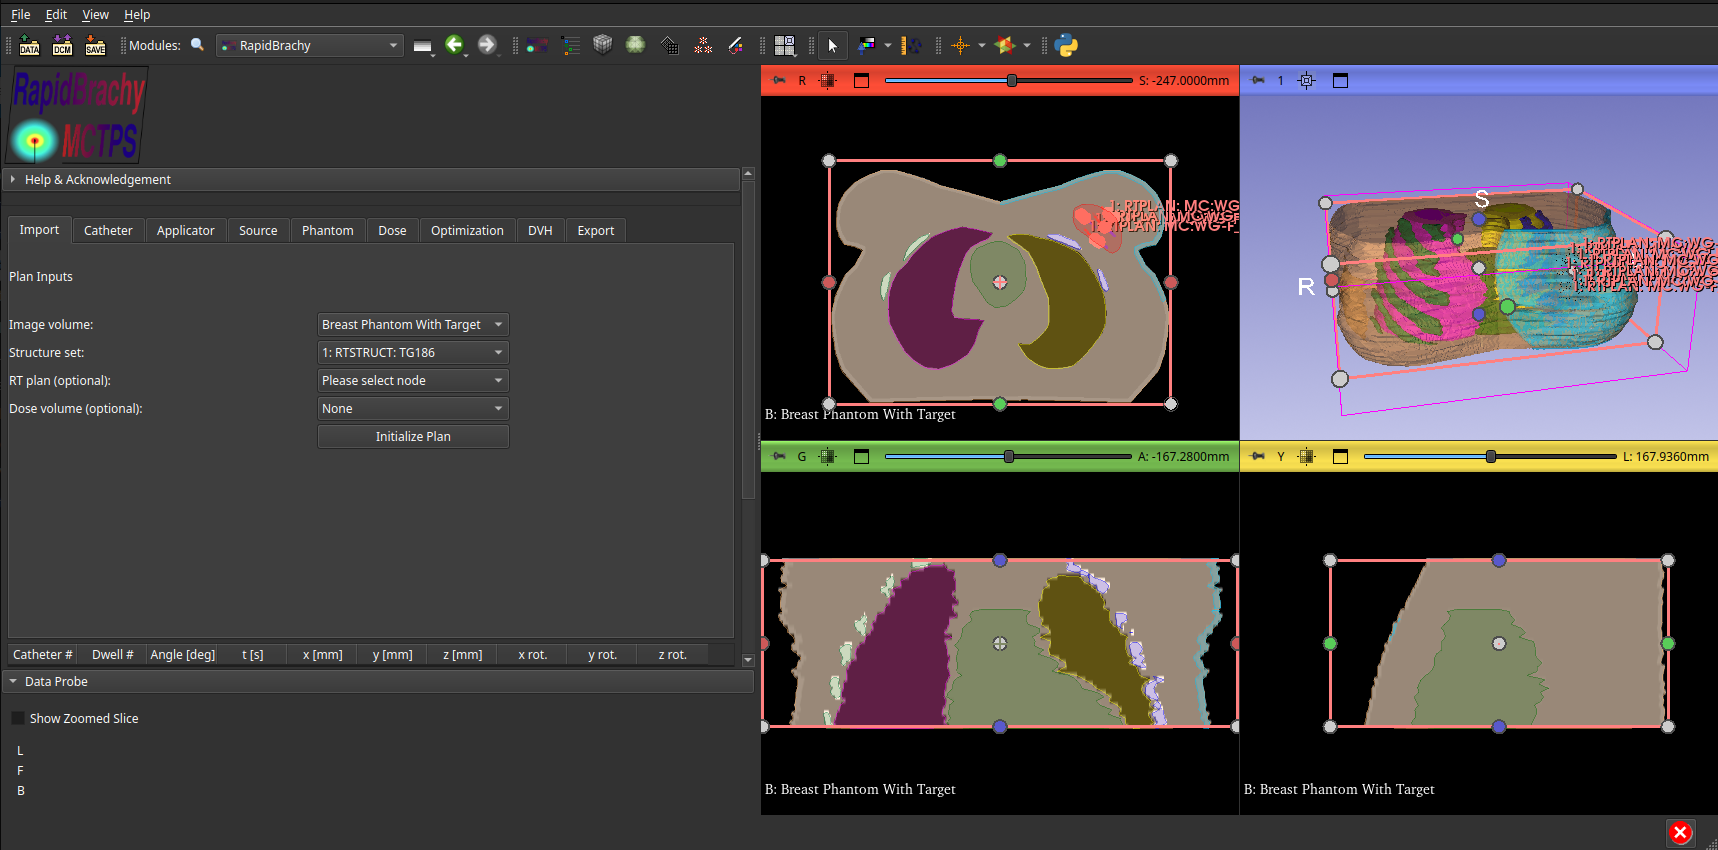
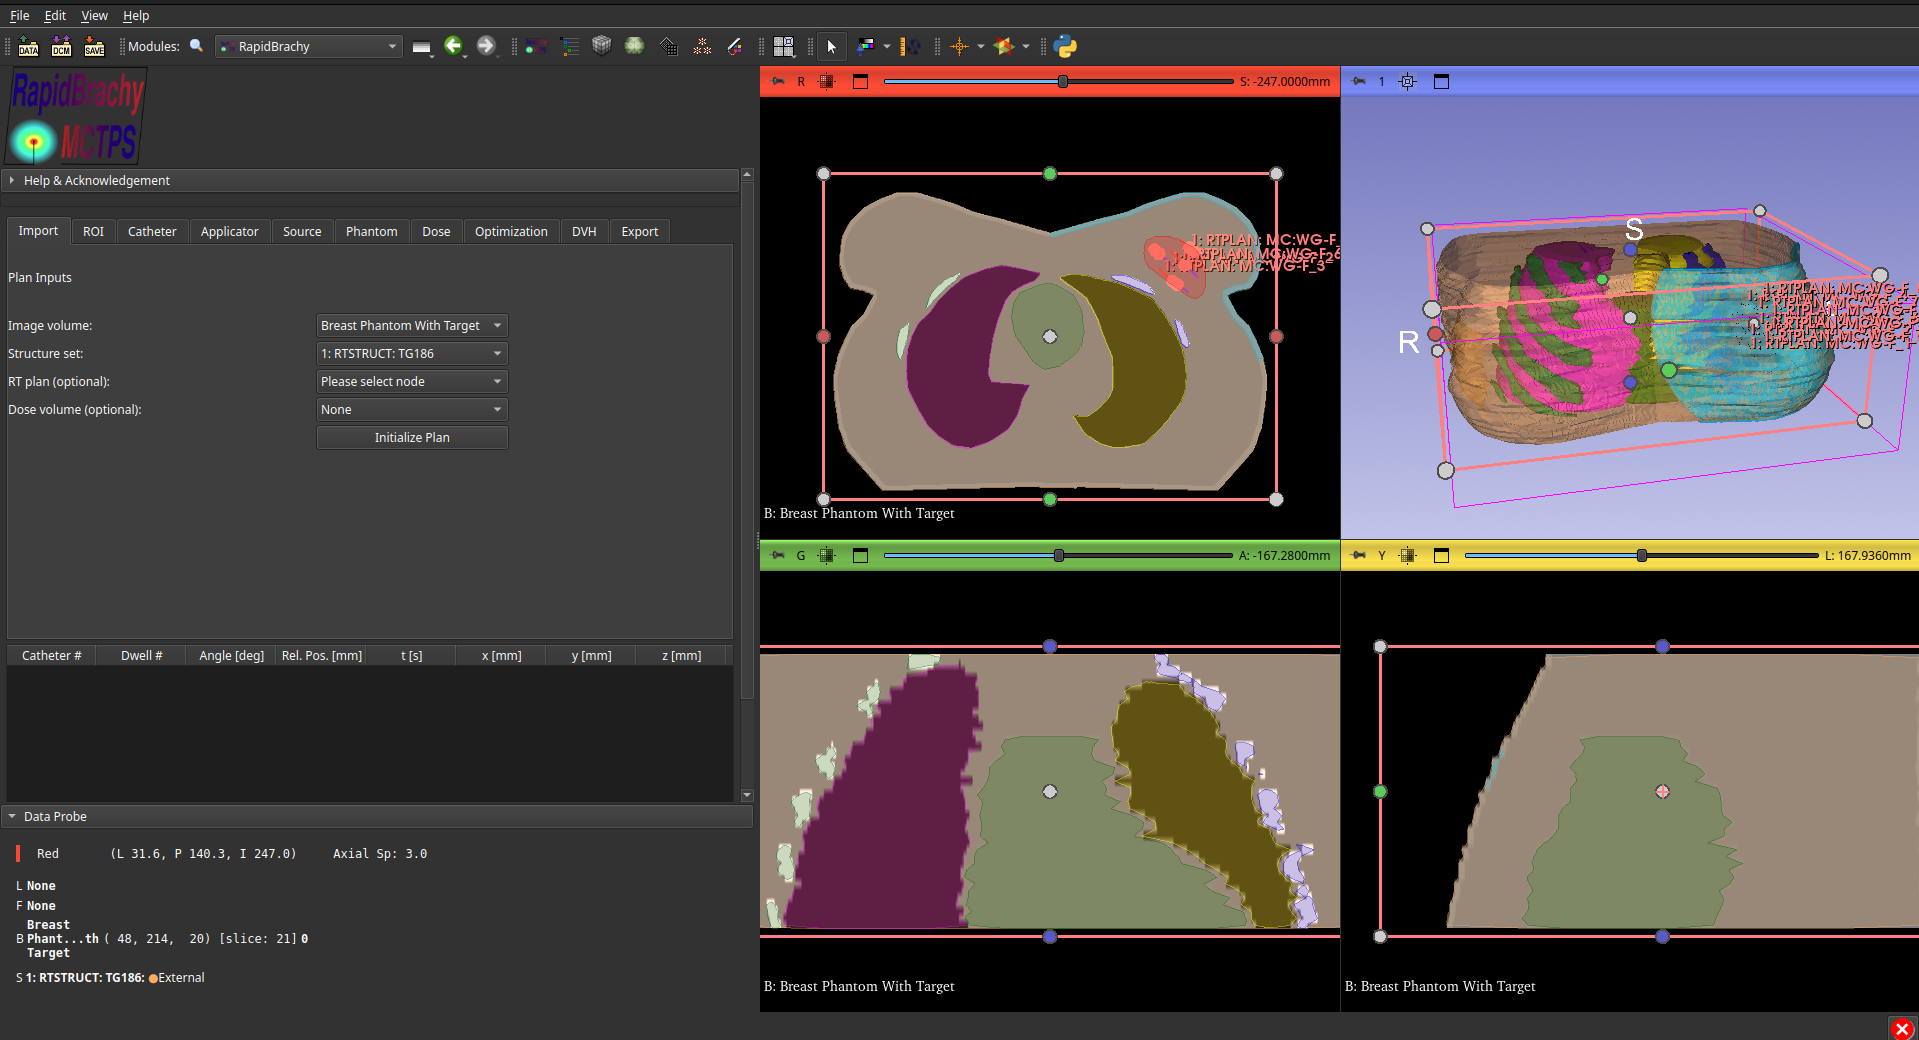
Deployed e3718ec with MkDocs version: 1.6.1

diff --git a/about/index.html b/about/index.html
@@ -64,6 +64,14 @@
     <li class="toctree-l2"><a class="reference internal" href="#how-to-cite">How to cite</a>
     </li>
     <li class="toctree-l2"><a class="reference internal" href="#acknowledgement">Acknowledgement</a>
+        <ul>
+    <li class="toctree-l3"><a class="reference internal" href="#major-contributors">Major Contributors</a>
+    </li>
+    <li class="toctree-l3"><a class="reference internal" href="#groups-contributing-to-rapidbrachymctpss-core-engineering">Groups Contributing to RapidBrachyMCTPS's Core Engineering</a>
+    </li>
+    <li class="toctree-l3"><a class="reference internal" href="#funding-sources">Funding Sources</a>
+    </li>
+        </ul>
     </li>
     <li class="toctree-l2"><a class="reference internal" href="#contact-us">Contact us</a>
     </li>
@@ -178,7 +186,23 @@
 <li>Kalinowski J, Jafarzadeh H, Farahnak F, Enger SA. RapidBrachyMCTPS 3.0: recent updates and validation of RapidBrachyMCTPS, a Monte Carlo-based brachytherapy treatment planning system. Phys Med Biol. 2026;71(12):12NT02. doi:10.1088/1361-6560/ae72e9</li>
 </ol>
 <h2 id="acknowledgement">Acknowledgement</h2>
+<p>RapidBrachyMCTPS is made possible through the continuous collaborative efforts of the research team at the Enger Lab, affiliated with the Medical Physics Unit at McGill University and the Lady Davis Institute for Medical Research. The following sections give credit to some of the major contributors to the RapidBrachyMCTPS core effort.</p>
+<h3 id="major-contributors">Major Contributors</h3>
+<ul>
+<li>Jonathan Kalinowski</li>
+<li>Hossein Jafarzadeh</li>
+<li>Remi Walhain</li>
+<li>Shirin A. Enger</li>
+</ul>
+<h3 id="groups-contributing-to-rapidbrachymctpss-core-engineering">Groups Contributing to RapidBrachyMCTPS's Core Engineering</h3>
+<ul>
+<li>3D Slicer</li>
+<li>Kitware</li>
+<li>Geant4</li>
+</ul>
+<h3 id="funding-sources">Funding Sources</h3>
 <h2 id="contact-us">Contact us</h2>
+<p>Any questions can be forwarded to </p>
               
             </div>
           </div><footer>

diff --git a/plan/index.html b/plan/index.html
@@ -132,6 +132,13 @@
 <p>The loaded data will now appear in the viewing panels, overlaid with a pink box representing the Region of Interest (ROI). Adjust this box along all three orthogonal axes to include only the anatomy you want evaluated during dose calculations. Keep in mind that the smaller the ROI, the faster the MC and TG-43 simulations will run.</p>
 <p><img alt="ROI" src="../img/ROI.png" width="900" /></p>
 <p><img alt="ROIBreastOnly" src="../img/ROIBreastOnly.png" width="600" /></p>
+<p>You can also automatically generate a ROI based on existing structures rather than defining it manually.</p>
+<ol>
+<li>Navigate to the <strong>ROI tab</strong> and use the <code>Conform to contours</code> drop-down menu to select the structures you want to include.</li>
+<li>Specify a margin (in mm) to define the buffer distance between your selected structures and the outer ROI boundary.</li>
+<li>Click <code>Update</code> and wait for the software to generate the new bounding volume.</li>
+</ol>
+<p>Instead of setting the ROI manually, you can systematically set the ROI by structure from the <strong>ROI tab</strong>. Select the desired structures to be included in the ROI from the <code>Conform to contours</code> drop-down menu. Then input a margin (in mm) indicating the buffer space between the structure and the border of the ROI. Click <code>Update</code> and wait for the ROI to update.</p>
 <p>To inspect the individual nodes, navigate to the <strong>Data</strong> in the module tab <img alt="data" src="../img/data.png" width="25" />. For a detailed overview of the terminology and structure used in 3D Slicer and RapidBrachyMCTPS, refer to the <a href="https://slicer.readthedocs.io/en/latest/developer_guide/mrml_overview.html">Slicer MRML Documentation</a>.</p>
               
             </div>

diff --git a/index.html b/index.html
@@ -189,5 +189,5 @@
 
 <!--
 MkDocs version : 1.6.1
-Build Date UTC : 2026-06-29 14:40:00.976377+00:00
+Build Date UTC : 2026-06-29 18:32:48.234511+00:00
 -->

diff --git a/installation/index.html b/installation/index.html
@@ -191,7 +191,7 @@
 <h3 id="standalone-application">Standalone Application</h3>
 <p>This version includes everything you need to run RapidBrachyMCTPS right out of the box.</p>
 <ol>
-<li>Download the latest release from the OneDrive (provided from engerlab).</li>
+<li>Download the latest release from the OneDrive (provided from Enger Lab).</li>
 <li>Extract the downloaded archive to your preferred directory.</li>
 <li>Run the <code>RapidBrachyMCTPS</code> executable file.</li>
 </ol>

diff --git a/import/index.html b/import/index.html
@@ -139,6 +139,7 @@
 <p>The TPS displays three orthogonal views by default. To change the layout, click the grey square icon in the module tab <img alt="fourup 2" src="../img/fourup.png" width="30" /> and select the desired view; the default layout is Four-Up.</p>
 <p>You can scroll through image slices using the mouse wheel. To pan the image, click and hold the mouse wheel and drag (or hold Shift + left click and drag). To zoom, right-click and drag.</p>
 <p><img alt="loaded" src="../img/loaded.png" width="900" /> </p>
+<p>To inspect the individual nodes, navigate to <strong>Data</strong> in the module tab <img alt="data" src="../img/data.png" width="25" />. For a detailed overview of the terminology and structure used in 3D Slicer and RapidBrachyMCTPS, refer to the <a href="https://slicer.readthedocs.io/en/latest/developer_guide/mrml_overview.html">Slicer MRML Documentation</a>.</p>
               
             </div>
           </div><footer>